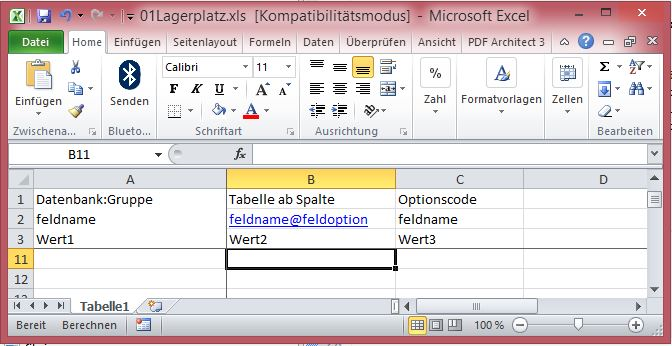
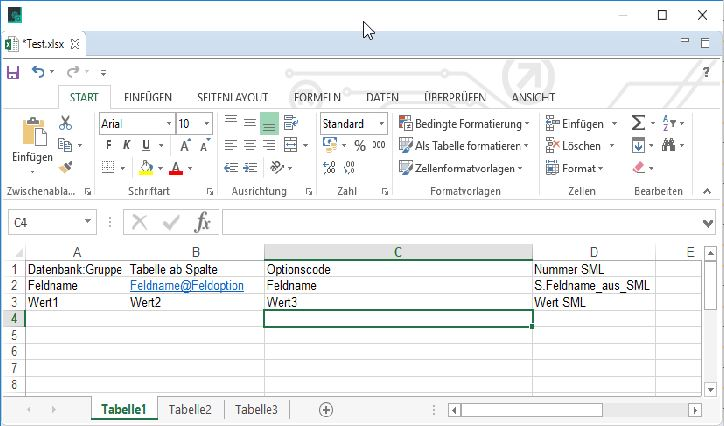
Stand 11042018 nicht fertig getestet

diff --git a/documentation/owimportitDocumentation/Dokumentation.html b/documentation/owimportitDocumentation/Dokumentation.html
@@ -64,7 +64,8 @@ Beim Import der Daten werden im Neu bzw. Update-Modus die einzelnen Datens&uuml;
 <li><h4>Datenbank:Gruppe</h4><br>
 	In dem Feld "Datenbank:Gruppe" (Feld 1:A) wird die Datenbank mit der entsprechenden Gruppe angegeben.<br>
 	z.B.: "Teil:Artikel" oder "2:1"
-	Alternativ kann auch das Tipp-Kommando als Nummer angegeben werden.
+	Alternativ kann auch das Tipp-Kommando als Nummer angegeben werden.<br>
+	Dieses Feld in Excel bitte als Text-Feld formatieren.
 </li>
 <li><h4>Tabelle ab Spalte</h4>
 </li>In diesem Feld wird angegeben,ab welcher Spalte Tabelledaten vorhanden sind.<br>
@@ -74,6 +75,10 @@ Beim Import der Daten werden im Neu bzw. Update-Modus die einzelnen Datens&uuml;
 <li><h4>Optionscode</h4></li>
 	In Zeile1/Spalte C kann ein Optionscode angegeben werden. Dieser belegt die<br>
 	Importoptionen des Infosystems vor. Die verschiedenen Optionen werden unten beschrieben.<br>
+<li><h4>SML-Sachmerkmalsleiste</h4></li>
+    Wenn Daten f&uuml;r eine Sachmerkmalsleiste eingelesen werden sollen, 
+    muss hier die Nummer der Sachmerkmalsleiste eingetragen werden.
+	
 <li><h4>Feldnamen</h4></li>	
 	In Zeile2 ab SpalteB werden die Feldnamen der abas Felder darunterfolgenden<br>
 	Daten deklariert. Das hei&uuml;t diese Zeile ist zugleich die Schl&uuml;sselung der<br>

diff --git a/documentation/owimportitDocumentation/Aenderungshistory.html b/documentation/owimportitDocumentation/Aenderungshistory.html
@@ -57,9 +57,12 @@
                 2.neue Option @keyselection<br>
                 3.neue Option @selection<br>
                 </blockquote>
-<li>Verison 3.0.2 : <blockquote>
+<li>Version 3.0.2 : <blockquote>
                 1. SML - Verarbeitung<br>
                 2. Fortschrittsanzeige
+                </blockquote>
+<li>Version 3.0.3 : <blockquote>
+                1. Verarbeitung - von Lagergruppeneigenschaften<br>
                 </blockquote>                
 </ol>
 </body>

diff --git a/src/main/java/de/abaspro/infosystem/importit/dataprocessing/AbasDataProcessingStandardObject.java b/src/main/java/de/abaspro/infosystem/importit/dataprocessing/AbasDataProcessingStandardObject.java
@@ -15,6 +15,8 @@ import de.abas.ceks.jedp.InvalidQueryException;
 import de.abas.ceks.jedp.InvalidRowOperationException;
 import de.abas.ceks.jedp.ServerActionException;
 import de.abaspro.infosystem.importit.ImportitException;
+import de.abaspro.infosystem.importit.SmlField;
+import de.abaspro.infosystem.importit.SmlTab;
 import de.abaspro.infosystem.importit.dataset.Data;
 import de.abaspro.infosystem.importit.dataset.Field;
 import de.abaspro.utils.Util;
@@ -122,6 +124,7 @@ public class AbasDataProcessingStandardObject extends AbstractDataProcessing {
 		boolean validDb = checkData(data);
 		boolean validHead = false;
 		boolean validTable = false;
+		boolean validSML = false;
 		if (validDb) {
 			List<Field> headerFields = data.getHeaderFields();
 			List<Field> tableFields = data.getTableFields();
@@ -133,17 +136,40 @@ public class AbasDataProcessingStandardObject extends AbstractDataProcessing {
 						data.getOptionCode().useEnglishVariables());
 				validTable = checkFieldList(tableFields, data.getDatabase(), data.getGroup(), true,
 						data.getOptionCode().useEnglishVariables());
+				if (data.getSmlFields() != null) {
+					validSML = checkSMLStructure(data);
+				} else {
+					validSML = true;
+				}
 
 			} catch (ImportitException e) {
 				logger.error(e);
 				data.appendError(Util.getMessage("err.structure.check", e));
 			}
 		}
-		if (validTable && validHead && validDb) {
+		if (validTable && validHead && validDb && validSML) {
 			return true;
 		} else {
 			return false;
 		}
+	}
+
+	private boolean checkSMLStructure(Data data) throws ImportitException {
+		String numberSML = data.getSmlString();
+
+		SmlTab smlTab = new SmlTab(this.edpSessionHandler, numberSML);
+
+		List<Field> smlfields = data.getSmlFields();
+		for (Field field : smlfields) {
+			SmlField smlField = smlTab.checkSmlTab(field.getName().substring(2));
+			if (smlField == null) {
+				return false;
+			} else {
+				field.setAbasType(smlField.getType());
+			}
+		}
+
+		return true;
 	}
 
 	private boolean checkData(Data data) throws ImportitException {

diff --git a/src/main/java/de/abaspro/infosystem/importit/SmlTab.java b/src/main/java/de/abaspro/infosystem/importit/SmlTab.java
@@ -1,0 +1,45 @@
+package de.abaspro.infosystem.importit;
+
+import java.util.HashMap;
+
+import de.abas.ceks.jedp.EDPConstants;
+import de.abas.ceks.jedp.EDPQuery;
+import de.abas.ceks.jedp.EDPSession;
+import de.abas.ceks.jedp.EDPVariableLanguage;
+import de.abas.ceks.jedp.InvalidQueryException;
+import de.abaspro.infosystem.importit.dataprocessing.EDPSessionHandler;
+import de.abaspro.utils.Util;
+
+public class SmlTab {
+
+	HashMap<String, SmlField> variables = new HashMap<>();
+
+	public SmlTab(EDPSessionHandler edpSessionHandler, String smlNumber) throws ImportitException {
+		EDPSession edpsession = edpSessionHandler.getEDPSession(EDPVariableLanguage.ENGLISH);
+		EDPQuery query = edpsession.createQuery();
+		int aliveFlag = EDPConstants.ALIVEFLAG_BOTH;
+		String[] fieldNames = { "varName", "varType", "width" };
+		String key = "";
+
+		String tableName = "12:24";
+		String criteria = "0:idno=" + smlNumber + ";type=(2);@englvar=true;@language=en";
+
+		try {
+			query.startQuery(tableName, key, criteria, true, aliveFlag, true, true, fieldNames, 0, 10000);
+			while (query.getNextRecord()) {
+				SmlField smlField = new SmlField(query);
+
+				variables.put(smlField.getVarName(), smlField);
+			}
+		} catch (InvalidQueryException e) {
+			throw new ImportitException(Util.getMessage("err.edp.query.bad.selection.string", criteria), e);
+		} finally {
+			edpSessionHandler.freeEDPSession(edpsession);
+		}
+	}
+
+	public SmlField checkSmlTab(String name) {
+		return this.variables.get(name);
+	}
+
+}

diff --git a/src/main/java/de/abaspro/infosystem/importit/dataprocessing/AbstractDataProcessing.java b/src/main/java/de/abaspro/infosystem/importit/dataprocessing/AbstractDataProcessing.java
@@ -466,6 +466,7 @@ public abstract class AbstractDataProcessing implements AbasDataProcessable {
 		} catch (ImportitException e) {
 			field.setError(Util.getMessage("err.check.reference", field.getAbasTyp(), field.getValue()));
 		} finally {
+			logger.debug(Util.getMessage("debug.getedpsession", "getEDPQueryReference"));
 			endQuery(query);
 		}
 		return "";
@@ -533,8 +534,9 @@ public abstract class AbstractDataProcessing implements AbasDataProcessable {
 			if (group != null) {
 				edpCriteria.setGroup(group.toString());
 			}
-
+			logger.debug(Util.getMessage("debug.getedpsession", "getEDPQueryReference startQuery"));
 			query.startQuery(edpCriteria, fieldNames);
+			logger.debug(Util.getMessage("debug.getedpsession", "getEDPQueryReference endQuery"));
 		} catch (InvalidQueryException e) {
 			throw new ImportitException(Util.getMessage("err.edp.query.bad.selection.string", selectionString), e);
 		} catch (CantReadSettingException e1) {

diff --git a/src/main/java/de/abaspro/infosystem/importit/dataset/Data.java b/src/main/java/de/abaspro/infosystem/importit/dataset/Data.java
@@ -237,11 +237,14 @@ public class Data {
 	}
 
 	public void copyAbasType(Data data) {
+		List<Field> dataheaderFields = data.getHeaderFields();
+		for (int i = 0; i < dataheaderFields.size(); i++) {
 
-		for (int i = 0; i < headerFields.size(); i++) {
-			if (headerFields.get(i) != null && data.headerFields.get(i) != null ) {
-				if (headerFields.get(i).getAbasTyp().isEmpty()) {
-					headerFields.get(i).setAbasType(data.headerFields.get(i).getAbasTyp());
+			if (this.headerFields.size() >= i) {
+				if (this.headerFields.get(i) != null && data.headerFields.get(i) != null) {
+					if (this.headerFields.get(i).getAbasTyp().isEmpty()) {
+						this.headerFields.get(i).setAbasType(data.headerFields.get(i).getAbasTyp());
+					}
 				}
 			}
 		}

diff --git a/src/main/java/de/abaspro/infosystem/importit/SmlField.java b/src/main/java/de/abaspro/infosystem/importit/SmlField.java
@@ -1,0 +1,36 @@
+package de.abaspro.infosystem.importit;
+
+import de.abas.ceks.jedp.EDPQuery;
+import de.abaspro.utils.Util;
+
+public class SmlField {
+
+	private static String varNameVarName = "varName";
+	private static String varNameVarType = "typeOfAdditionalVar";
+
+	private String varName;
+	private String varType;
+
+	public SmlField(EDPQuery query) {
+		if (query != null) {
+			this.varName = query.getField(varNameVarName);
+
+			this.varType = query.getField(varNameVarType);
+
+		} else
+			throw new NullPointerException(Util.getMessage("vartab.field.query.not.defined"));
+	}
+
+	public String getType() {
+
+		return this.varType;
+
+	}
+
+	public String getVarName() {
+
+		return this.varName;
+
+	}
+
+}

diff --git a/src/main/java/de/abaspro/infosystem/importit/Main.java b/src/main/java/de/abaspro/infosystem/importit/Main.java
@@ -351,6 +351,7 @@ public class Main implements ProgressListener {
 			}
 			logger.info(Util.getMessage("info.structure.check.end.data"));
 			infosys.setYfehlerstruktur(getErrorCount());
+
 			showDatabaseInfo(infosys);
 			setOptions(infosys);
 			protectoptionFields(infosys, screenControl, false);
@@ -406,6 +407,11 @@ public class Main implements ProgressListener {
 			}
 			if (data.getTypeCommand() != null) {
 				infosys.setYtippkommando(data.getTypeCommand().toString());
+			}
+			if (data.getSmlString() != null) {
+
+				infosys.setString(InfosystemImportit.META.ysml, data.getSmlString());
+
 			}
 			infosys.setYtababspalte(data.getTableStartsAtField() + 1);
 		}
